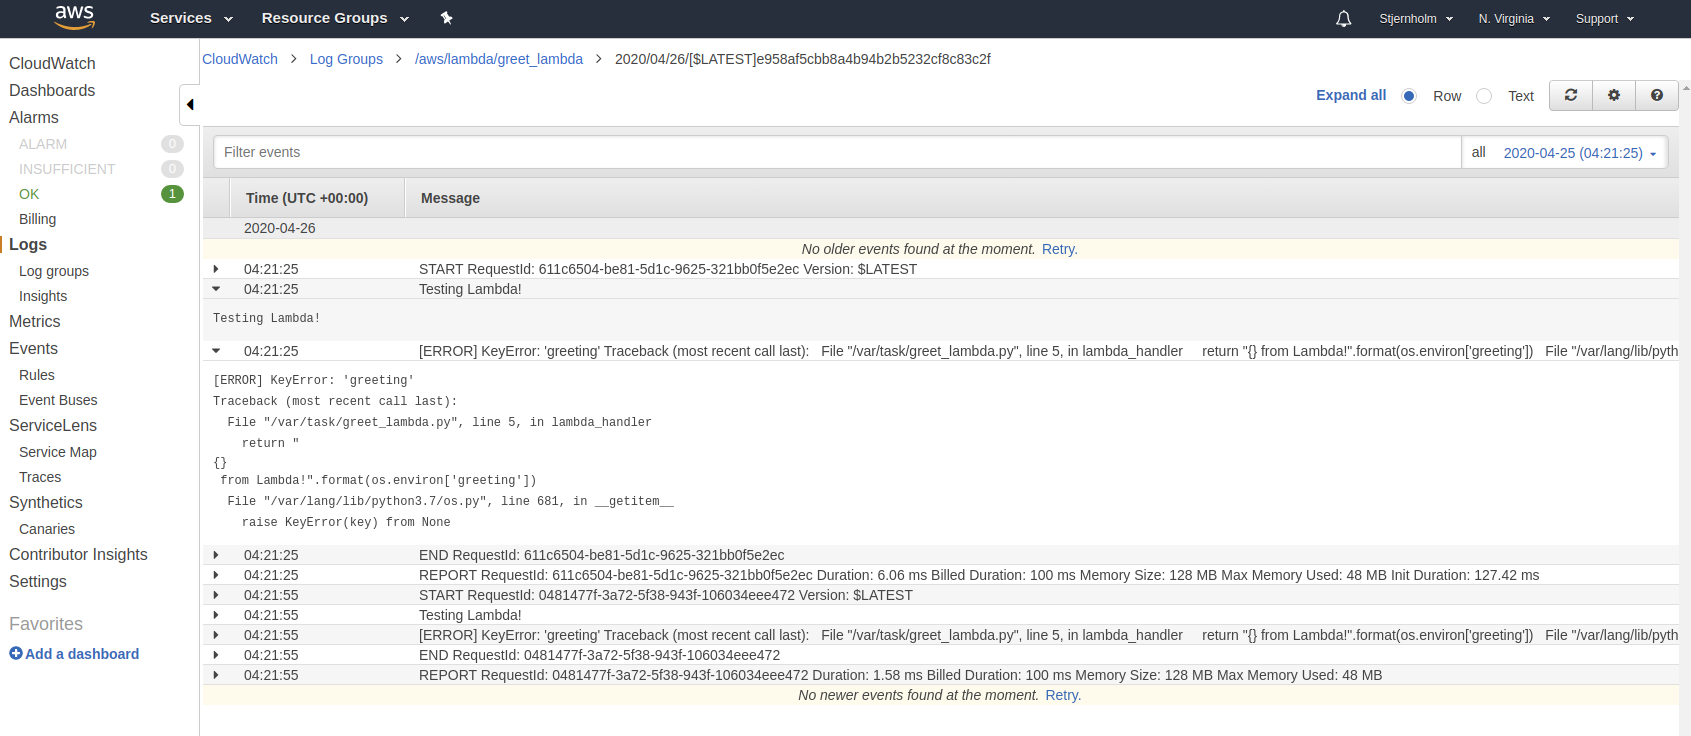
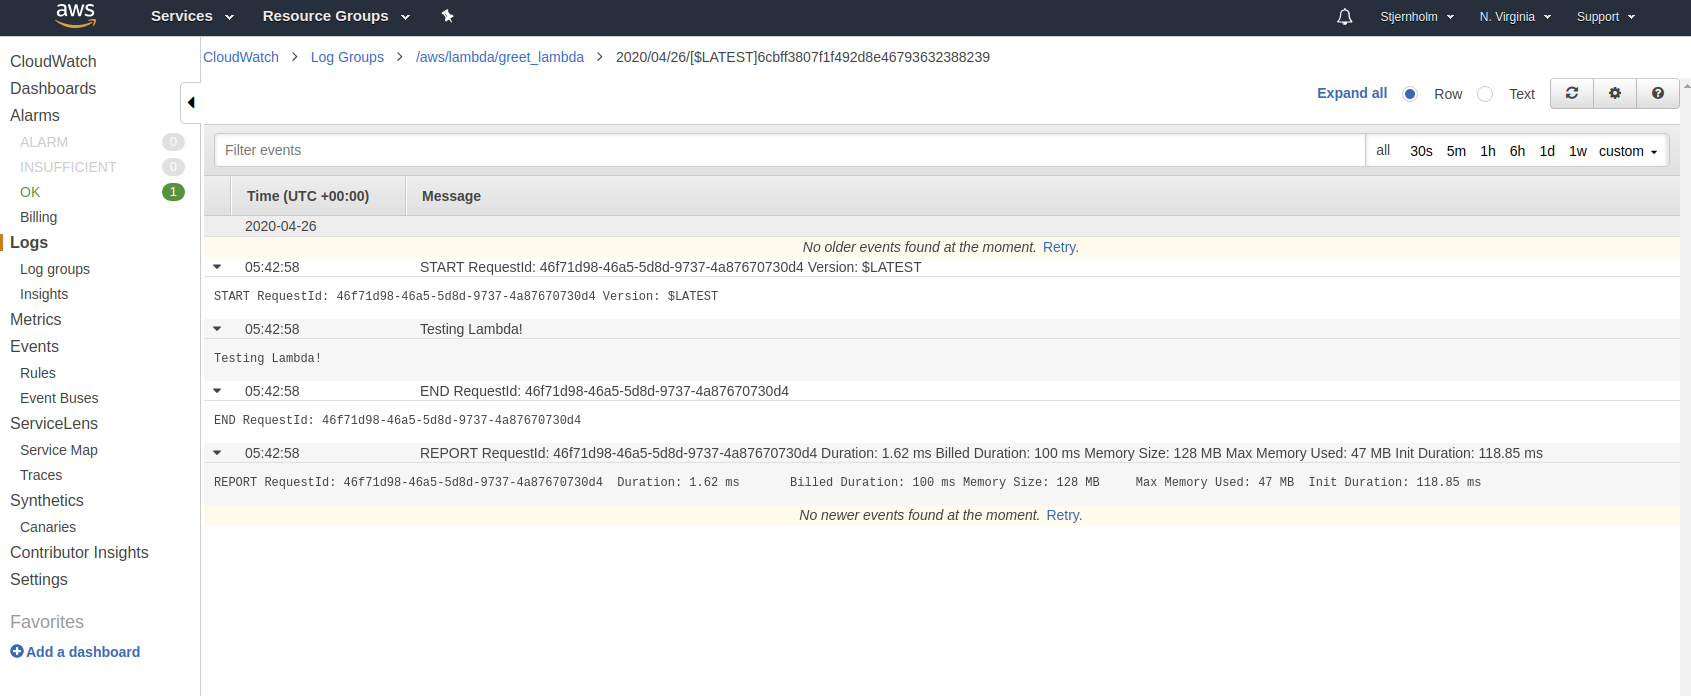
Fix: change greet_lambda.py file

diff --git a/terraform/exercise_2/greet_lambda.py b/terraform/exercise_2/greet_lambda.py
@@ -1,5 +1,9 @@
-import os
+import json
 
 def lambda_handler(event, context):
     print("Testing Lambda!")
-    return "{} from Lambda!".format(os.environ['greeting'])
+    # TODO implement
+    return {
+        'statusCode': 200,
+        'body': json.dumps('Hello from Lambda!')
+    }
